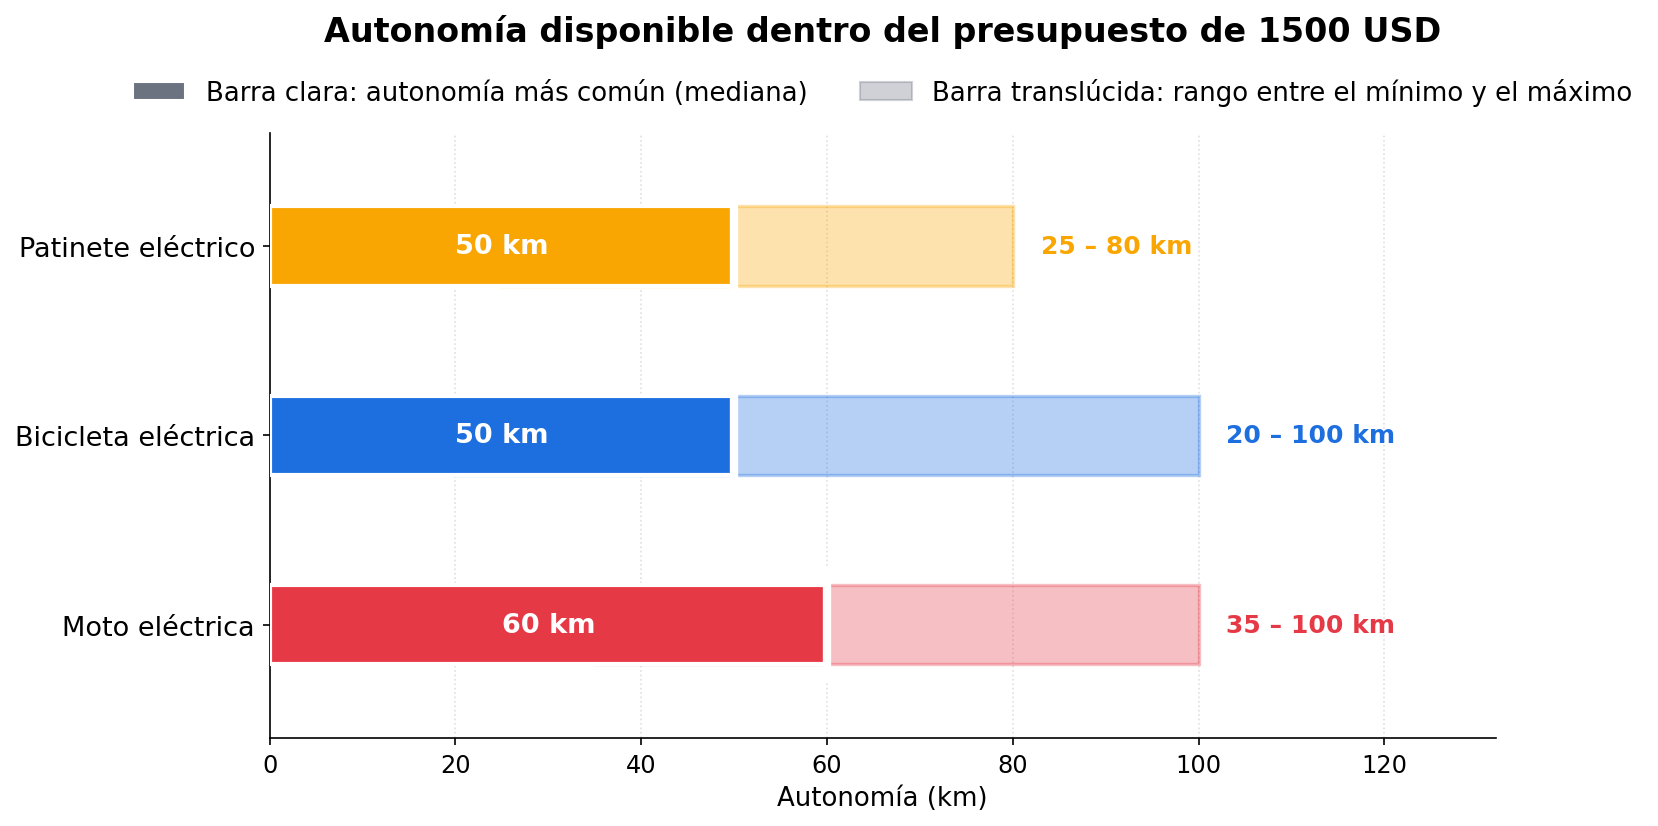
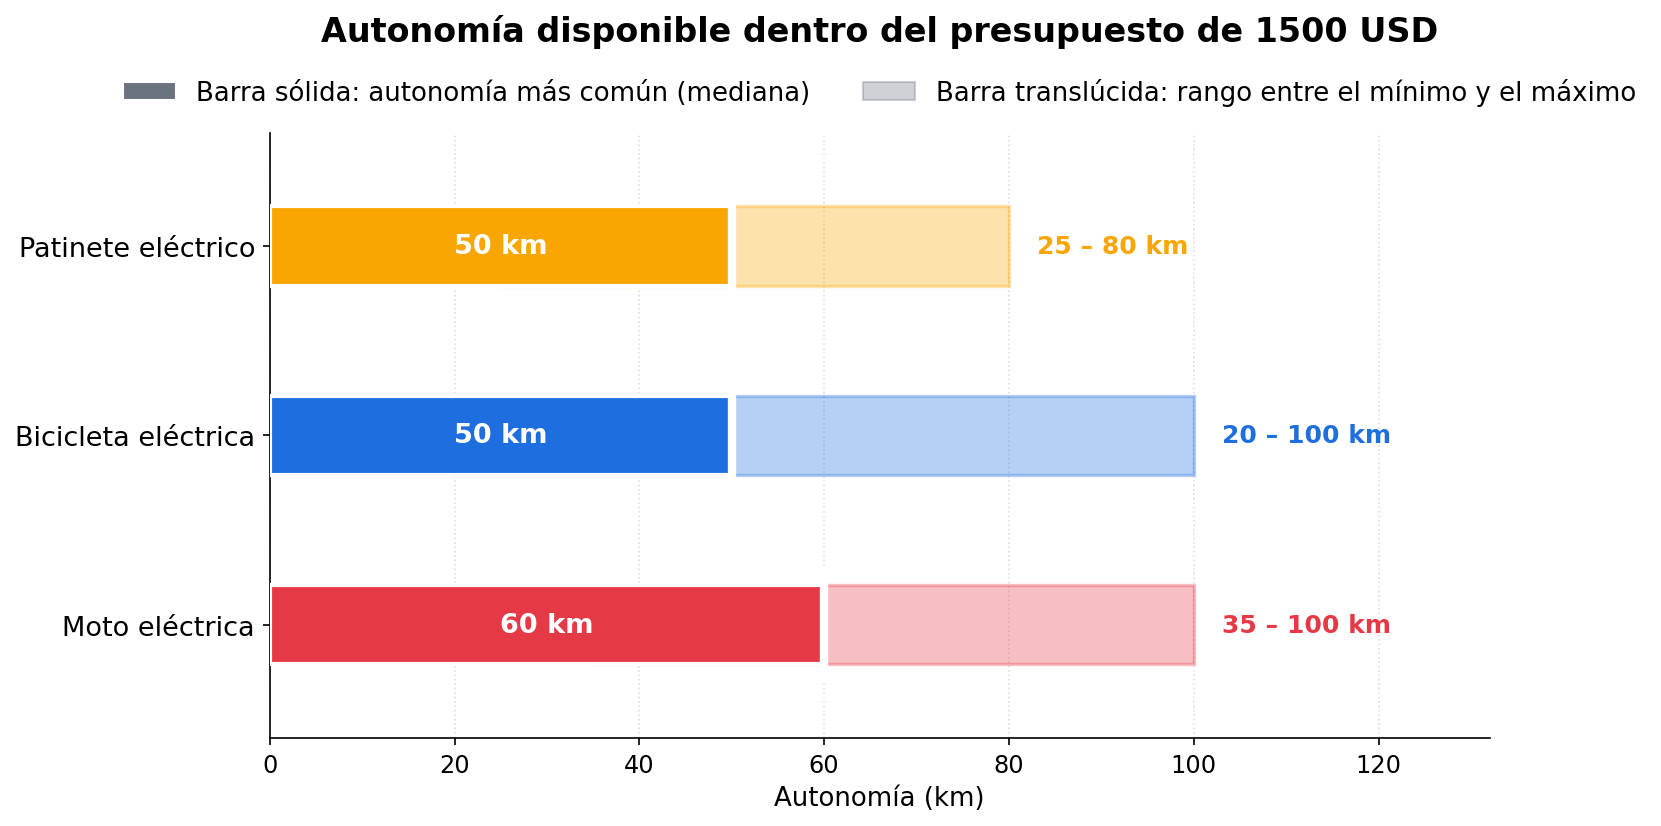
Primera fuente concluida: bloque de conclusiones de Revolico

diff --git a/analisis.py b/analisis.py
@@ -393,7 +393,7 @@ def figura_autonomia_alcanzable(ruta: Path | None = None):
     from matplotlib.patches import Patch
     _leyenda_arriba(ax, [
         Patch(facecolor="#6B7280", edgecolor="white",
-              label="Barra clara: autonomía más común (mediana)"),
+              label="Barra sólida: autonomía más común (mediana)"),
         Patch(facecolor="#6B7280", edgecolor="#6B7280", alpha=0.32,
               label="Barra translúcida: rango entre el mínimo y el máximo"),
     ])

diff --git a/JOURNAL.md b/JOURNAL.md
@@ -68,8 +68,8 @@ conozca el proyecto pueda leerlo y entender cómo se llegó al resultado final.
 **Decisiones**
 
 - Se exigieron **marca, precio y autonomía** como datos obligatorios, pero el
-  **tipo de batería quedó opcional**: solo 1 de cada 4 anuncios lo publica, y
-  exigirlo habría dejado fuera más de la mitad del mercado.
+  **tipo de batería quedó opcional**: aunque lo publica el 70 % de los anuncios
+  (156 de 224), exigirlo habría dejado fuera los 68 restantes.
 - Los precios se guardaron convertidos a **USD** (745 CUP = 1 USD) para que las
   tres categorías sean comparables entre sí.
 - Se corrigió una marca que se detectaba mal ("Volt", que en realidad estaba
@@ -85,19 +85,11 @@ conozca el proyecto pueda leerlo y entender cómo se llegó al resultado final.
   espacio reservado para las demás fuentes. Así se puede leer el proyecto entero
   en GitHub sin ejecutar nada, que era el problema del notebook anterior.
 - Cada análisis lleva su explicación, después la tabla, después la explicación del
-  gráfico, después el gráfico y una descripción de lo que el gráfico muestra. **Las
-  conclusiones no se escriben hasta analizar todas las fuentes**, para evitar
-  anticipar un juicio con una sola fuente.
+  gráfico, después el gráfico y una descripción de lo que el gráfico muestra.
 - Se descartó el gráfico de dispersión con los 224 puntos: era ilegible. En su lugar
   cada análisis tiene un gráfico distinto y con pocos elementos, pensado para que
   cualquier persona pueda leerlo sin conocimientos previos.
 - El lenguaje del notebook es formal y está dirigido a un público general.
-- Ajuste de los gráficos: las leyendas se sostienen encima del área del
-  dibujo para no tapar las barras, y el encabezado de la fuente pasó a
-  "La fuente: los anuncios de Revolico" para que no se confundiera con el del
-  primer análisis.
-- La mediana dejó de representarse con una línea sobre la barra del promedio,
-  que tapaba el valor, y pasó a ser una barra contigua a su lado.
 
 **Problemas**
 
@@ -111,14 +103,45 @@ conozca el proyecto pueda leerlo y entender cómo se llegó al resultado final.
 - El primer push a GitHub falló porque el sistema usó la cuenta equivocada. Se
   fijó la cuenta de la autora solo para este repositorio, sin tocar la
   configuración global de Git.
-- Solo hay 2 anuncios de todo el conjunto que superan los 80 km de autonomía, así
-  que no alcanza para comparar "qué vehículo le conviene más" a Lucy. Esa
-  pregunta queda abierta hasta tener datos de calidad de otras fuentes.
+- **La autonomía alta es poco común dentro del presupuesto:** de los 154 anuncios
+  alcanzables, solo 3 llegan a 80 km o más. A eso se suma que el 30 % no declara
+  el tipo de batería y que ningún anuncio indica fecha. Con esta fuente no se puede
+  afirmar cuál vehículo le conviene más a Lucy; la pregunta queda abierta hasta
+  contar con datos de calidad de las demás fuentes.
 
 **Pendiente**
 
-- Revisar los dos gráficos con la autora y ajustar lo que pida.
 - Completar la lista de fuentes (Telegram, encuestas, mercados).
 - Repetir los análisis en cada fuente nueva y comparar resultados.
-- Escribir las conclusiones.
+- Escribir las conclusiones generales del estudio.
 - Actualizar `HANDS_OFF.md` con los resultados.
+
+---
+
+## 2026-10-04 — Primera fuente concluida
+
+**Qué se hizo**
+
+1. **Cierre de la fuente Revolico.** Se terminaron los tres análisis previstos
+   (precio por categoría, disponibilidad dentro de los 1.500 USD y autonomía
+   alcanzable) y se redactó el bloque **"Conclusiones de la fuente Revolico"**
+   en el notebook, que responde por primera vez a la pregunta de investigación.
+
+2. **Lo que se concluyó con esta fuente.** La categoría del vehículo es la
+   variable que explica el precio: la moto cuesta 3,2 veces la bicicleta, pero
+   dentro de cada categoría los precios son regulares y el precio por sí solo no
+   distingue calidad. Con 1.500 USD se accede a cualquier categoría (75 de 75
+   bicicletas y 73 de 74 patinetes) pero a solo 6 de 75 motos, y pagar más no
+   garantiza más autonomía: dentro del presupuesto las motos alcanzan una mediana
+   de 60 km frente a 50 km de bicicletas y patinetes.
+
+3. **Límite de esta primera fuente.** La calidad solo se puede medir a medias:
+   el 30 % de los anuncios no declara la batería, no hay fechas y los precios son
+   los solicitados por el vendedor, no los de venta. Por eso las conclusiones
+   generales del estudio siguen reservadas hasta analizar el resto de fuentes.
+
+**Decisiones**
+
+- Se adoptó el formato de **conclusiones por fuente**: cada fuente cierra con su
+  propio bloque de conclusiones, y al final se escribirán las conclusiones
+  generales que comparen todas las fuentes.
